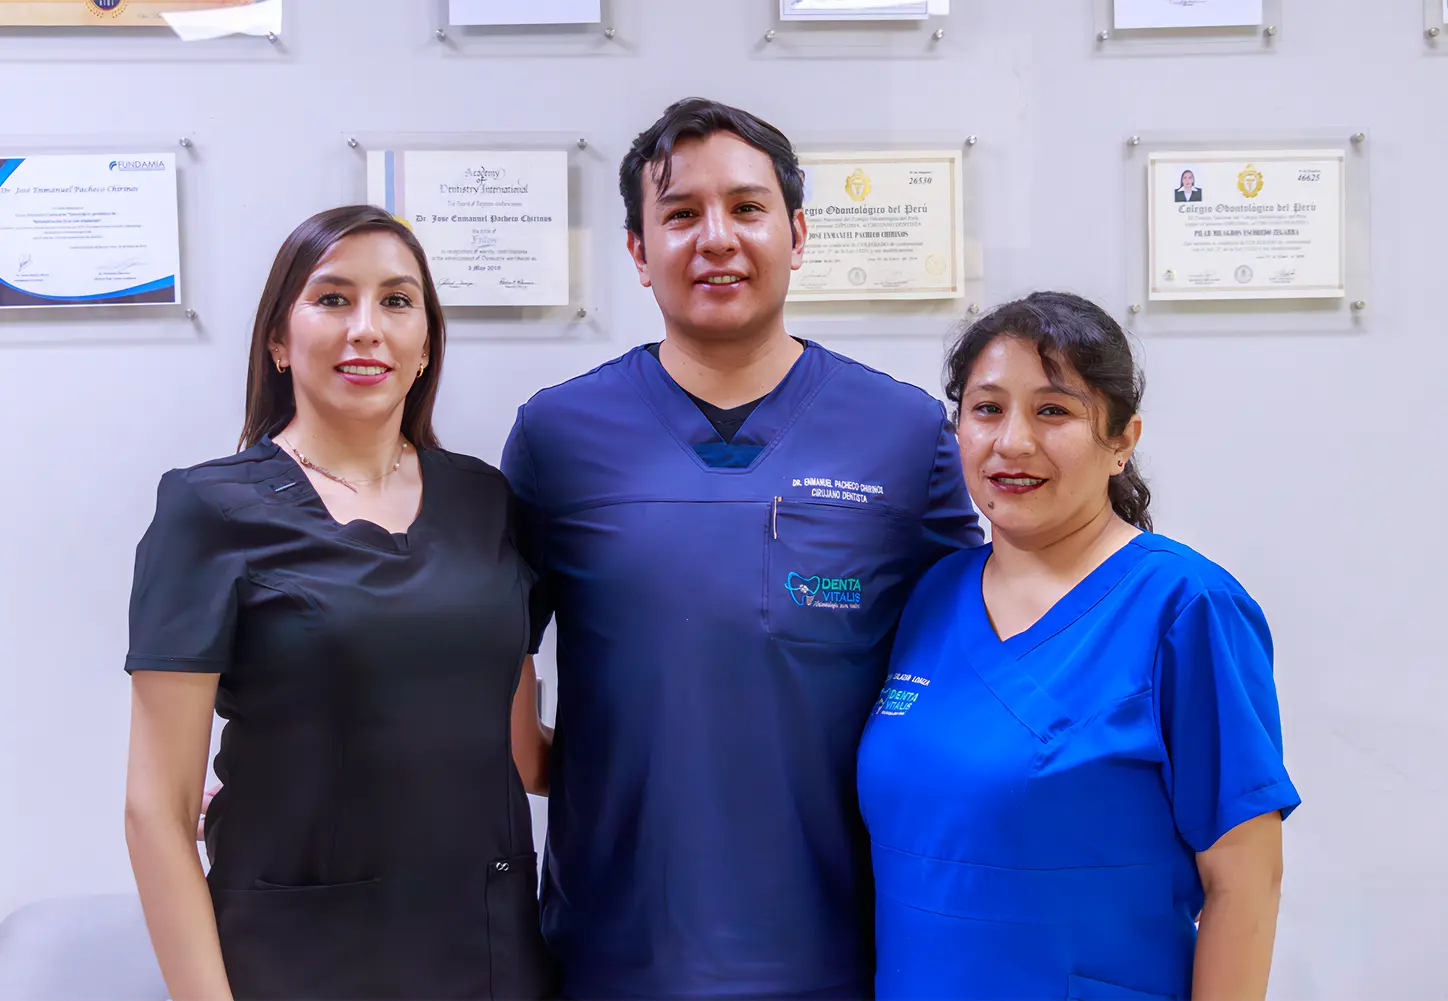
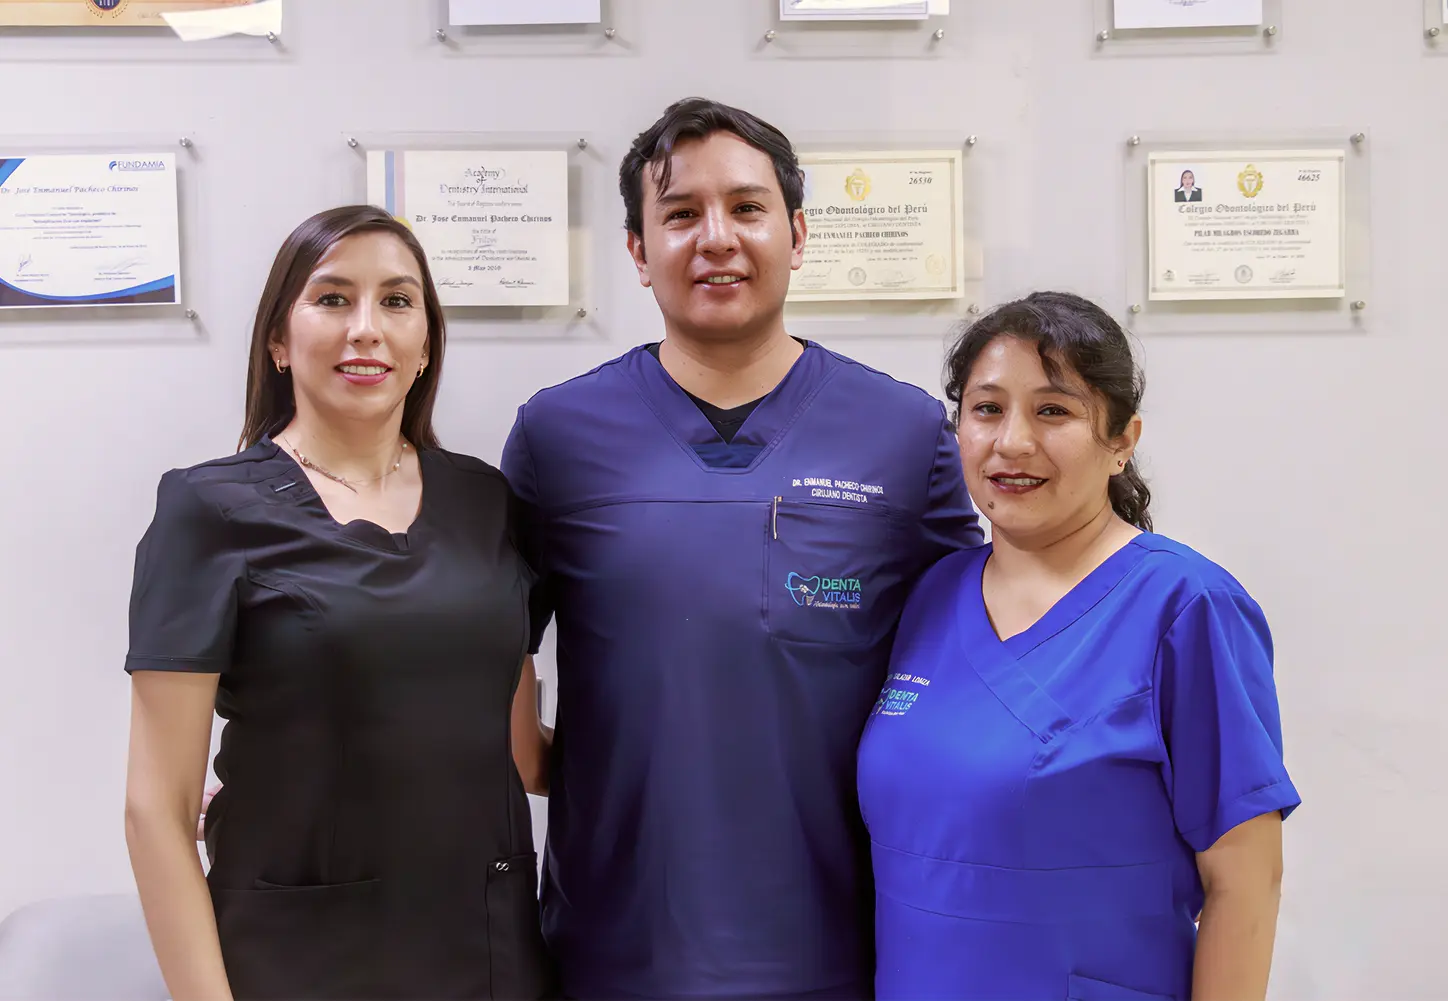
change images

Changed region(s): [[0.3419, 0.3407, 0.9012, 1.0], [0.0, 0.2787, 0.1243, 0.3097], [0.0, 0.1548, 0.0311, 0.1858]]

diff --git a/src/routes/contacto/+page.svelte b/src/routes/contacto/+page.svelte
@@ -150,7 +150,6 @@
 		max-width: 474px;
 		margin-left: auto;
 		margin-right: 48px;
-		display: block;
 	}
 	h1 {
 		color: var(--teal);
@@ -224,7 +223,6 @@
 			padding: 16px;
 		}
 		form {
-			display: flex;
 			max-width: unset;
 			margin-left: auto;
 			margin-right: auto;

diff --git a/src/routes/Section2.svelte b/src/routes/Section2.svelte
@@ -1,6 +1,6 @@
 <script>
 	import tools from '$lib/svg/tools.svg'
-	import dentist from "$lib/images/otra.webp";
+	import dentist from "$lib/images/sedes/doc_av_todos.webp";
     import Button from '$lib/Button.svelte';
     import Pbox from './Pbox.svelte';
 </script>

diff --git a/src/routes/servicios/Intro.svelte b/src/routes/servicios/Intro.svelte
@@ -1,5 +1,5 @@
 <script>
-	import src from '$lib/images/servicios/servicios.webp'
+	import src from '$lib/images/sedes/2-4.webp'
 	import Button from '$lib/Button.svelte'
 </script>
 
